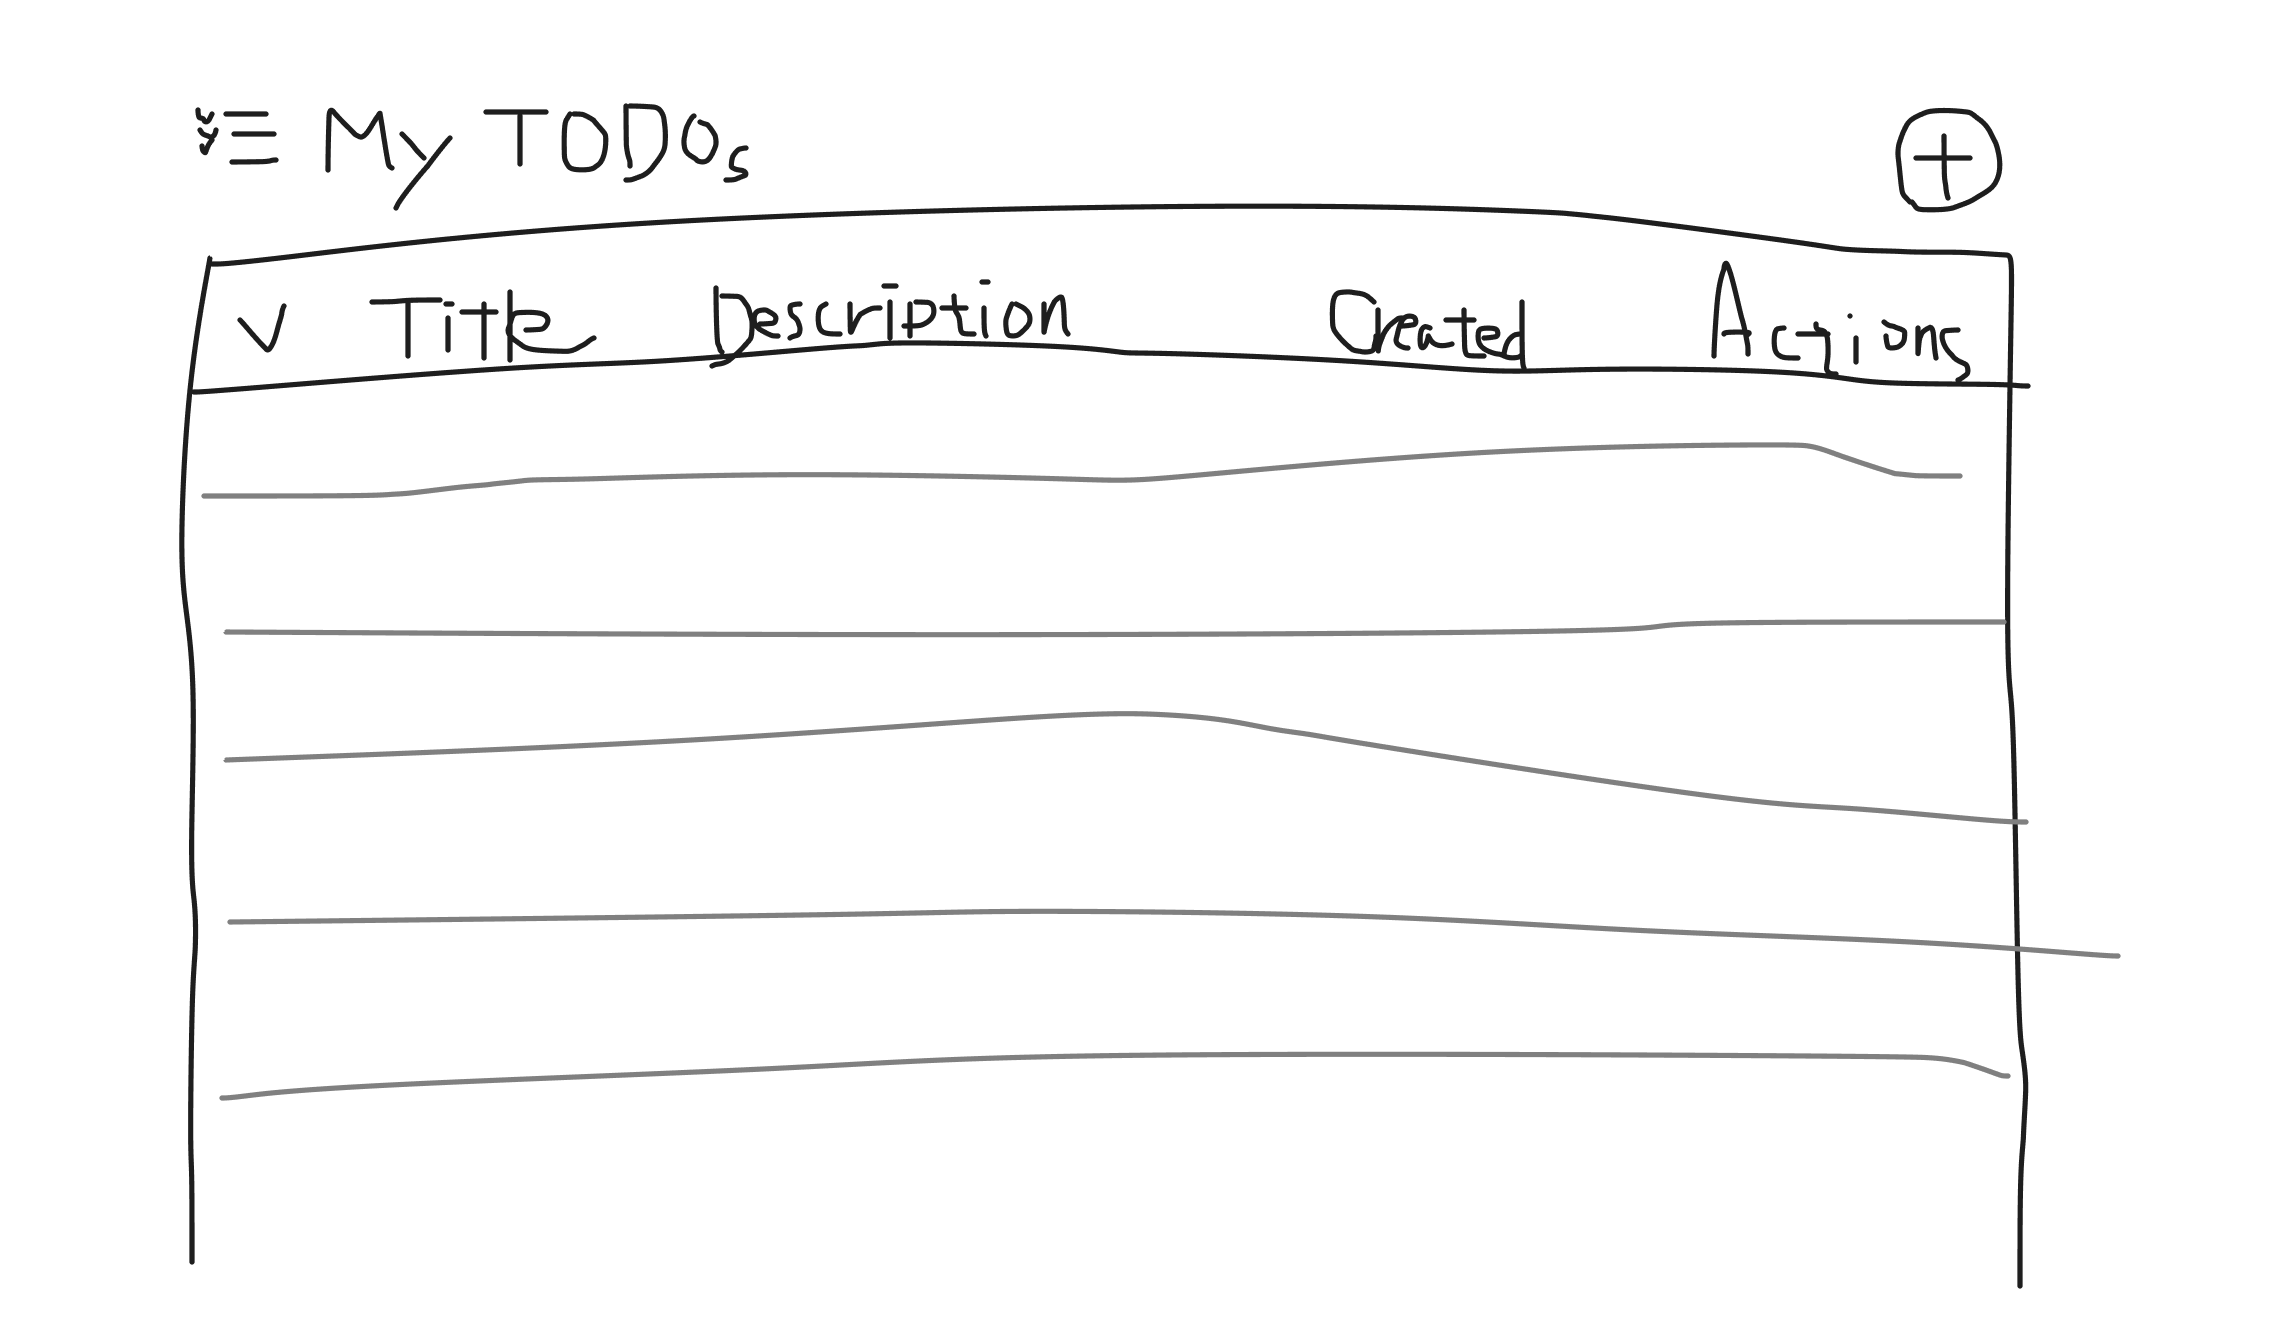
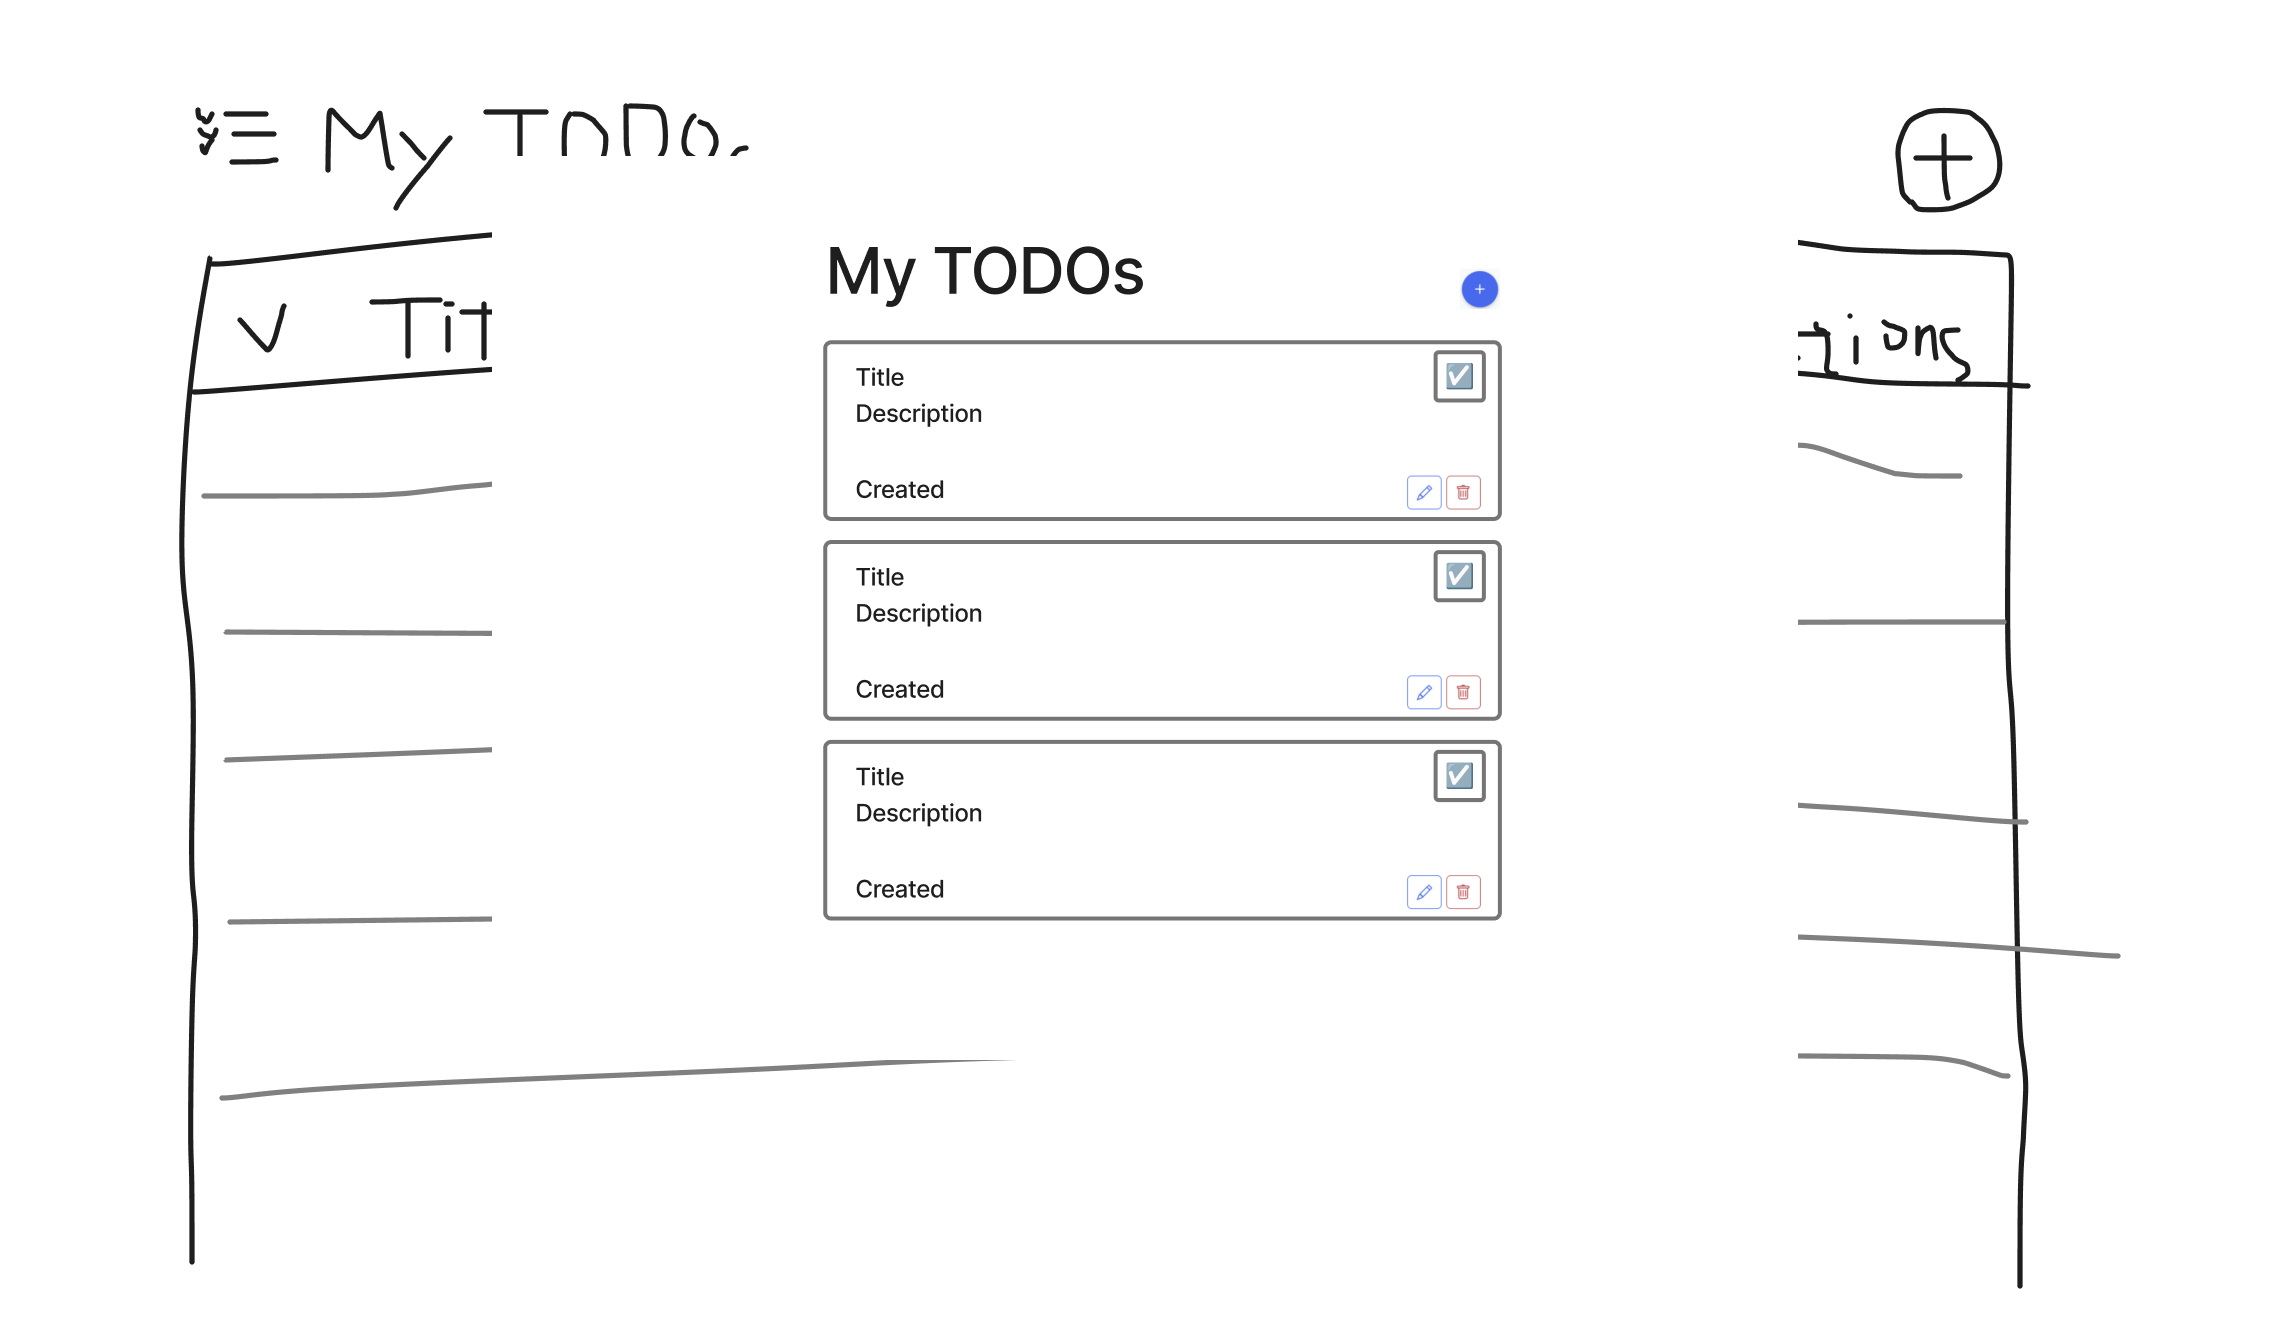
Implement card-based design for todo list
- Add new mockup file todo-list-mockup-002.png
- Convert table layout to card-based design
- Position checkbox in top-right corner of each card
- Move action buttons to bottom-right corner
- Add hover effects and smooth transitions
- Update styling for better visual hierarchy
- Maintain all existing functionality

🤖 Generated with [Claude Code](https://claude.ai/code)

diff --git a/src/main/resources/templates/index.html b/src/main/resources/templates/index.html
@@ -15,48 +15,32 @@
                             </a>
                         </div>
                         
-                        <div class="todo-list" th:if="${!todos.isEmpty()}">
-                            <table class="table table-bordered">
-                                <thead>
-                                    <tr>
-                                        <th width="50" class="text-center">✓</th>
-                                        <th>Title</th>
-                                        <th>Description</th>
-                                        <th width="150">Created</th>
-                                        <th width="100" class="text-center">Actions</th>
-                                    </tr>
-                                </thead>
-                                <tbody>
-                                    <tr th:each="todo : ${todos}" th:class="${todo.completed ? 'completed' : ''}">
-                                        <td class="text-center">
-                                            <form th:action="@{/todo/{id}/toggle(id=${todo.id})}" method="post" class="d-inline">
-                                                <button type="submit" class="btn btn-sm p-0 border-0 bg-transparent">
-                                                    <input type="checkbox" class="form-check-input" th:checked="${todo.completed}" style="pointer-events: none;">
-                                                </button>
-                                            </form>
-                                        </td>
-                                        <td th:text="${todo.title}"></td>
-                                        <td>
-                                            <span th:text="${todo.description}"></span>
-                                            <span th:if="${todo.description == null || todo.description.isEmpty()}" class="text-muted">-</span>
-                                        </td>
-                                        <td th:text="${#temporals.format(todo.createdAt, 'yyyy/MM/dd')}"></td>
-                                        <td class="text-center">
-                                            <div class="d-flex justify-content-center gap-1">
-                                                <a th:href="@{/todo/{id}/edit(id=${todo.id})}" class="btn btn-sm btn-outline-primary">
-                                                    <i class="bi bi-pencil"></i>
-                                                </a>
-                                                <form th:action="@{/todo/{id}/delete(id=${todo.id})}" method="post" class="d-inline">
-                                                    <button type="submit" class="btn btn-sm btn-outline-danger" 
-                                                            onclick="return confirm('Are you sure you want to delete this TODO?')">
-                                                        <i class="bi bi-trash"></i>
-                                                    </button>
-                                                </form>
-                                            </div>
-                                        </td>
-                                    </tr>
-                                </tbody>
-                            </table>
+                        <div class="todo-cards" th:if="${!todos.isEmpty()}">
+                            <div class="todo-card" th:each="todo : ${todos}" th:classappend="${todo.completed ? 'completed' : ''}">
+                                <div class="todo-checkbox">
+                                    <form th:action="@{/todo/{id}/toggle(id=${todo.id})}" method="post">
+                                        <button type="submit" class="checkbox-button">
+                                            <i class="bi" th:class="${todo.completed ? 'bi-check-square-fill' : 'bi-square'}"></i>
+                                        </button>
+                                    </form>
+                                </div>
+                                <div class="todo-content">
+                                    <h5 class="todo-title" th:text="${todo.title}"></h5>
+                                    <p class="todo-description" th:text="${todo.description != null && !todo.description.isEmpty() ? todo.description : ''}"></p>
+                                    <small class="todo-date" th:text="${#temporals.format(todo.createdAt, 'yyyy/MM/dd')}"></small>
+                                </div>
+                                <div class="todo-actions">
+                                    <a th:href="@{/todo/{id}/edit(id=${todo.id})}" class="btn btn-sm btn-link text-primary p-1">
+                                        <i class="bi bi-pencil"></i>
+                                    </a>
+                                    <form th:action="@{/todo/{id}/delete(id=${todo.id})}" method="post" class="d-inline">
+                                        <button type="submit" class="btn btn-sm btn-link text-danger p-1" 
+                                                onclick="return confirm('Are you sure you want to delete this TODO?')">
+                                            <i class="bi bi-trash"></i>
+                                        </button>
+                                    </form>
+                                </div>
+                            </div>
                         </div>
                         
                         <div th:if="${todos.isEmpty()}" class="text-center py-5">

diff --git a/src/main/resources/static/css/style.css b/src/main/resources/static/css/style.css
@@ -18,42 +18,103 @@ h2 {
     color: #333;
 }
 
-/* Todo list table styles */
-.todo-list {
+/* Todo card styles */
+.todo-cards {
+    display: flex;
+    flex-direction: column;
+    gap: 1rem;
+}
+
+.todo-card {
     background-color: white;
-    border-radius: 8px;
-    overflow: hidden;
-    box-shadow: 0 1px 3px rgba(0, 0, 0, 0.1);
+    border: 2px solid #dee2e6;
+    border-radius: 12px;
+    padding: 1.5rem;
+    position: relative;
+    transition: all 0.2s ease;
 }
 
-.todo-list table {
-    margin-bottom: 0;
+.todo-card:hover {
+    box-shadow: 0 4px 8px rgba(0, 0, 0, 0.1);
+    transform: translateY(-2px);
 }
 
-.todo-list th {
-    background-color: #f8f9fa;
-    border-bottom: 2px solid #dee2e6;
-    font-weight: 500;
-    color: #495057;
-    padding: 12px;
-}
-
-.todo-list td {
-    padding: 12px;
-    vertical-align: middle;
-}
-
-.todo-list tr.completed td {
-    text-decoration: line-through;
-    color: #6c757d;
+.todo-card.completed {
     opacity: 0.7;
 }
 
-/* Checkbox styles */
-.form-check-input {
-    width: 1.2em;
-    height: 1.2em;
-    margin: 0;
+.todo-card.completed .todo-title,
+.todo-card.completed .todo-description {
+    text-decoration: line-through;
+    color: #6c757d;
+}
+
+/* Checkbox positioning */
+.todo-checkbox {
+    position: absolute;
+    top: 1rem;
+    right: 1rem;
+}
+
+.checkbox-button {
+    background: none;
+    border: none;
+    padding: 0;
+    cursor: pointer;
+    font-size: 1.5rem;
+    color: #6c757d;
+    transition: color 0.2s ease;
+}
+
+.checkbox-button:hover {
+    color: #495057;
+}
+
+.checkbox-button .bi-check-square-fill {
+    color: #198754;
+}
+
+/* Content styling */
+.todo-content {
+    padding-right: 3rem;
+}
+
+.todo-title {
+    font-size: 1.1rem;
+    font-weight: 500;
+    margin-bottom: 0.5rem;
+    color: #212529;
+}
+
+.todo-description {
+    font-size: 0.95rem;
+    color: #6c757d;
+    margin-bottom: 0.5rem;
+    line-height: 1.5;
+}
+
+.todo-date {
+    color: #6c757d;
+    font-size: 0.875rem;
+}
+
+/* Action buttons positioning */
+.todo-actions {
+    position: absolute;
+    bottom: 1rem;
+    right: 1rem;
+    display: flex;
+    gap: 0.25rem;
+}
+
+/* Button hover effects */
+.btn-link {
+    text-decoration: none;
+}
+
+.btn-link:hover {
+    background-color: rgba(0, 0, 0, 0.05);
+    border-radius: 4px;
 }
 
 /* Button styles */
